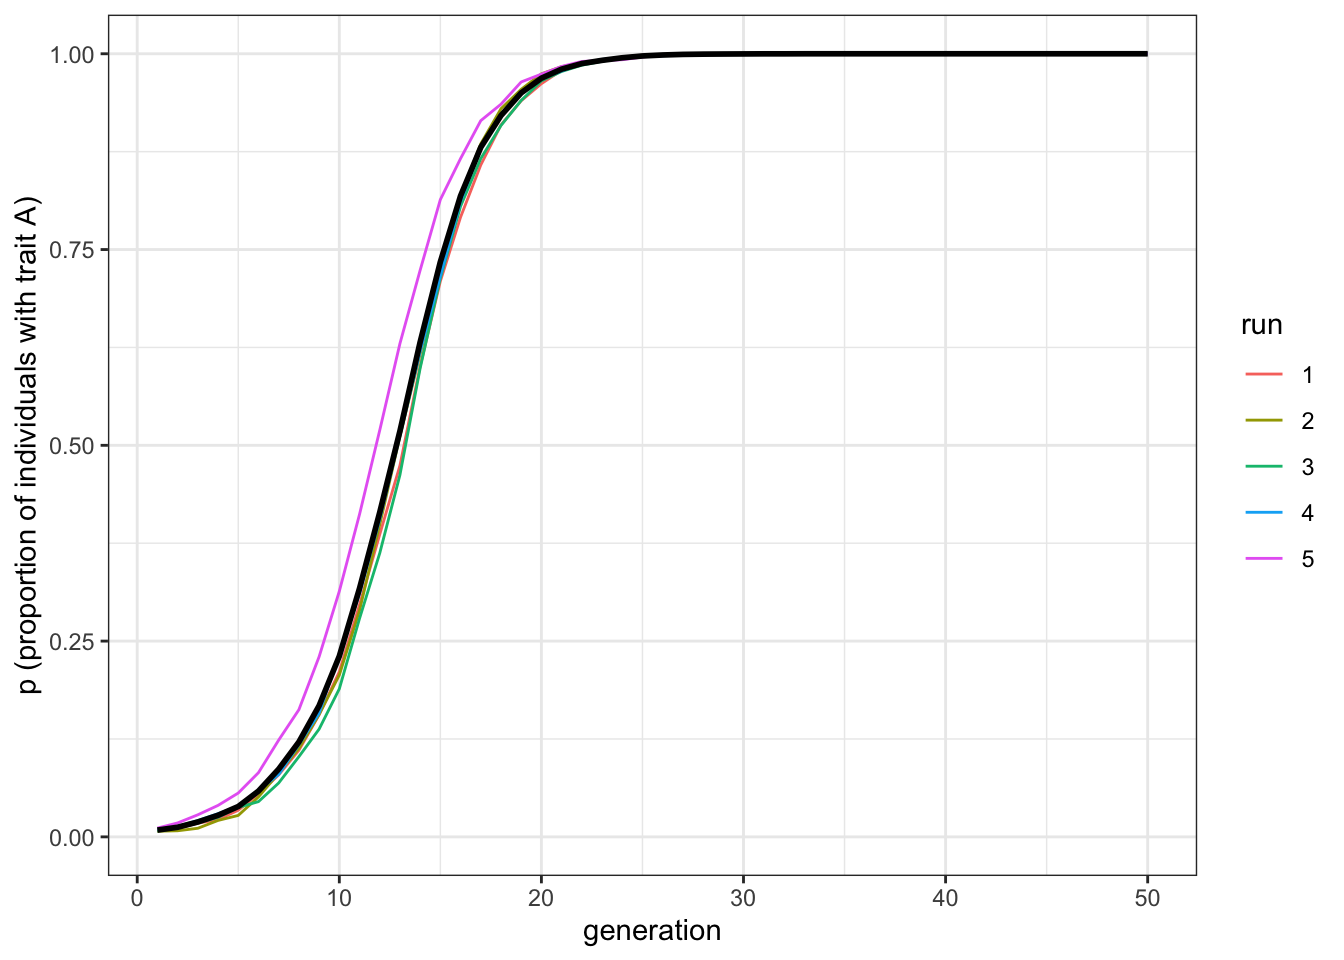
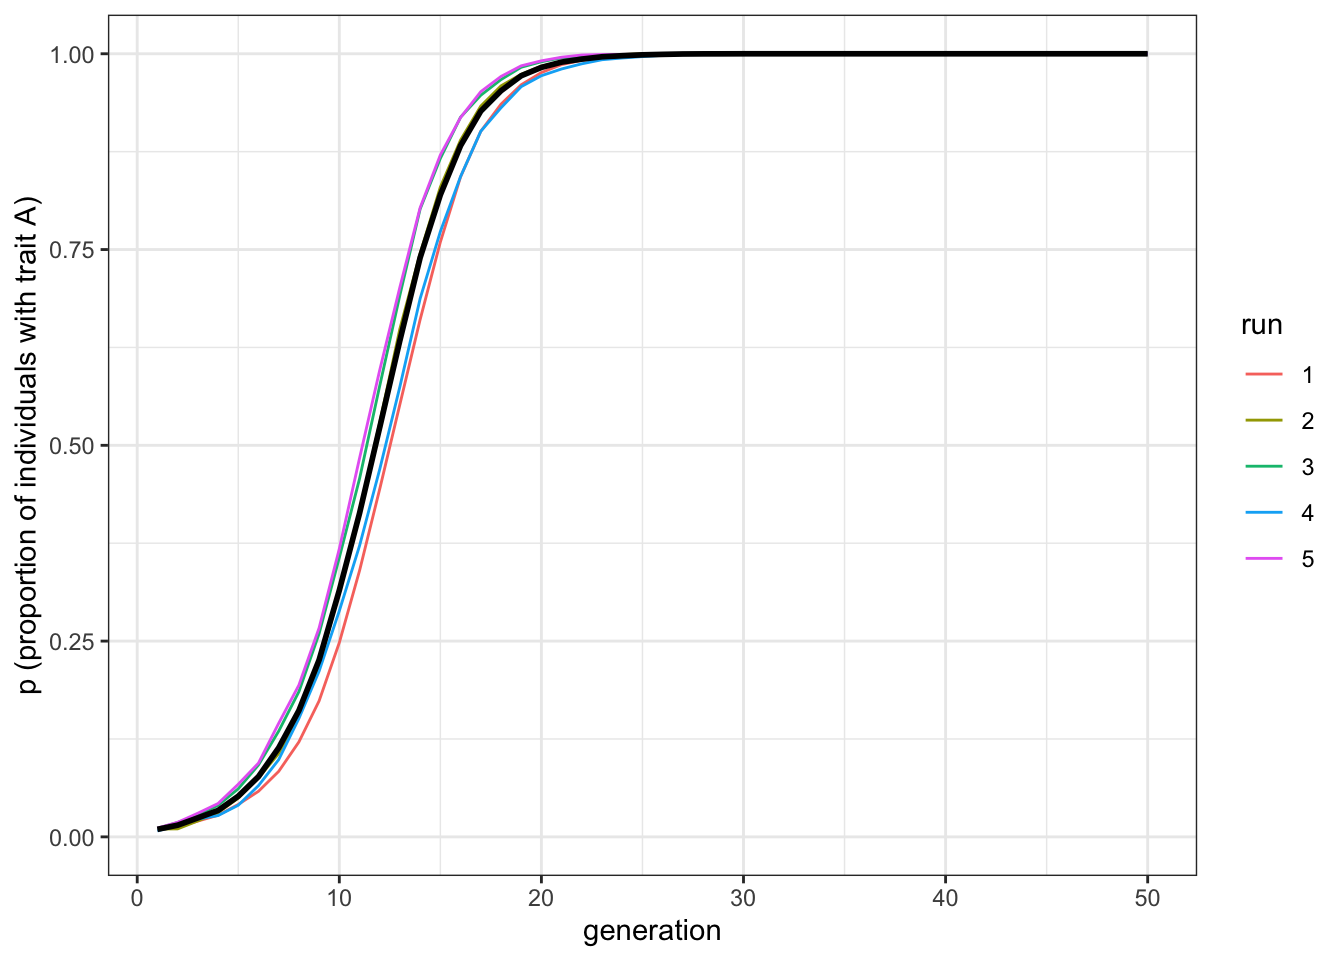
chapter 6 check

Changed region(s): [[0.125, 0.0312, 0.5, 0.875]]

diff --git a/_book/vertical-and-horizontal-transmission.html b/_book/vertical-and-horizontal-transmission.html
@@ -432,16 +432,16 @@ code span.wa { color: #60a0b0; font-weight: bold; font-style: italic; } /* Warni
 </div>
 <div class="sourceCode" id="cb8"><pre class="sourceCode r"><code class="sourceCode r"><span id="cb8-1"><a href="vertical-and-horizontal-transmission.html#cb8-1"></a><span class="kw">plot_multiple_runs</span>(data_model_hn2)</span></code></pre></div>
 <div class="figure">
-<img src="_main_files/figure-html/6.9-1.png" alt="Given an equivalent bias strength and two demonstrators, the favourite trait, A, spreads in the population under horizontal transmission similarly to the vertical transmission scenario." width="672" />
+<img src="_main_files/figure-html/6.9-1.png" alt="Given an equivalent bias strength and two demonstrators, the favourite trait, A, spreads under horizontal transmission at the same speed than in the vertical transmission scenario." width="672" />
 <p class="caption">
-(#fig:6.9)Given an equivalent bias strength and two demonstrators, the favourite trait, A, spreads in the population under horizontal transmission similarly to the vertical transmission scenario.
+(#fig:6.9)Given an equivalent bias strength and two demonstrators, the favourite trait, A, spreads under horizontal transmission at the same speed than in the vertical transmission scenario.
 </p>
 </div>
 <div class="sourceCode" id="cb9"><pre class="sourceCode r"><code class="sourceCode r"><span id="cb9-1"><a href="vertical-and-horizontal-transmission.html#cb9-1"></a><span class="kw">plot_multiple_runs</span>(data_model_hn5)</span></code></pre></div>
 <div class="figure">
-<img src="_main_files/figure-html/6.10-1.png" alt="Given an equivalent bias strength and five demonstrators, the favourite trait, A, spreads in the population under horizontal transmission faaster than the vertical transmission scenario." width="672" />
+<img src="_main_files/figure-html/6.10-1.png" alt="Given an equivalent bias strength and five demonstrators, the favourite trait, A, spreads under horizontal transmission faster than in the vertical transmission scenario." width="672" />
 <p class="caption">
-(#fig:6.10)Given an equivalent bias strength and five demonstrators, the favourite trait, A, spreads in the population under horizontal transmission faaster than the vertical transmission scenario.
+(#fig:6.10)Given an equivalent bias strength and five demonstrators, the favourite trait, A, spreads under horizontal transmission faster than in the vertical transmission scenario.
 </p>
 </div>
 <p>The first two plots should be very similar. Horizontal cultural transmission from <span class="math inline">\(n=2\)</span> demonstrators is equivalent to vertical cultural transmission, which of course also features two demonstrators, when both pathways have similarly strong direct biases. The third plot shows that increasing the number of demonstrators makes favoured traits spread more rapidly under horizontal transmission, without changing the strength of the biases. Of course, changing the relative strength of the vertical and horizontal biases (<span class="math inline">\(b\)</span> and <span class="math inline">\(g\)</span> respectively) also affects the relative speed. But all else being equal, horizontal transmission with <span class="math inline">\(n&gt;2\)</span> is faster than vertical transmission.</p>
